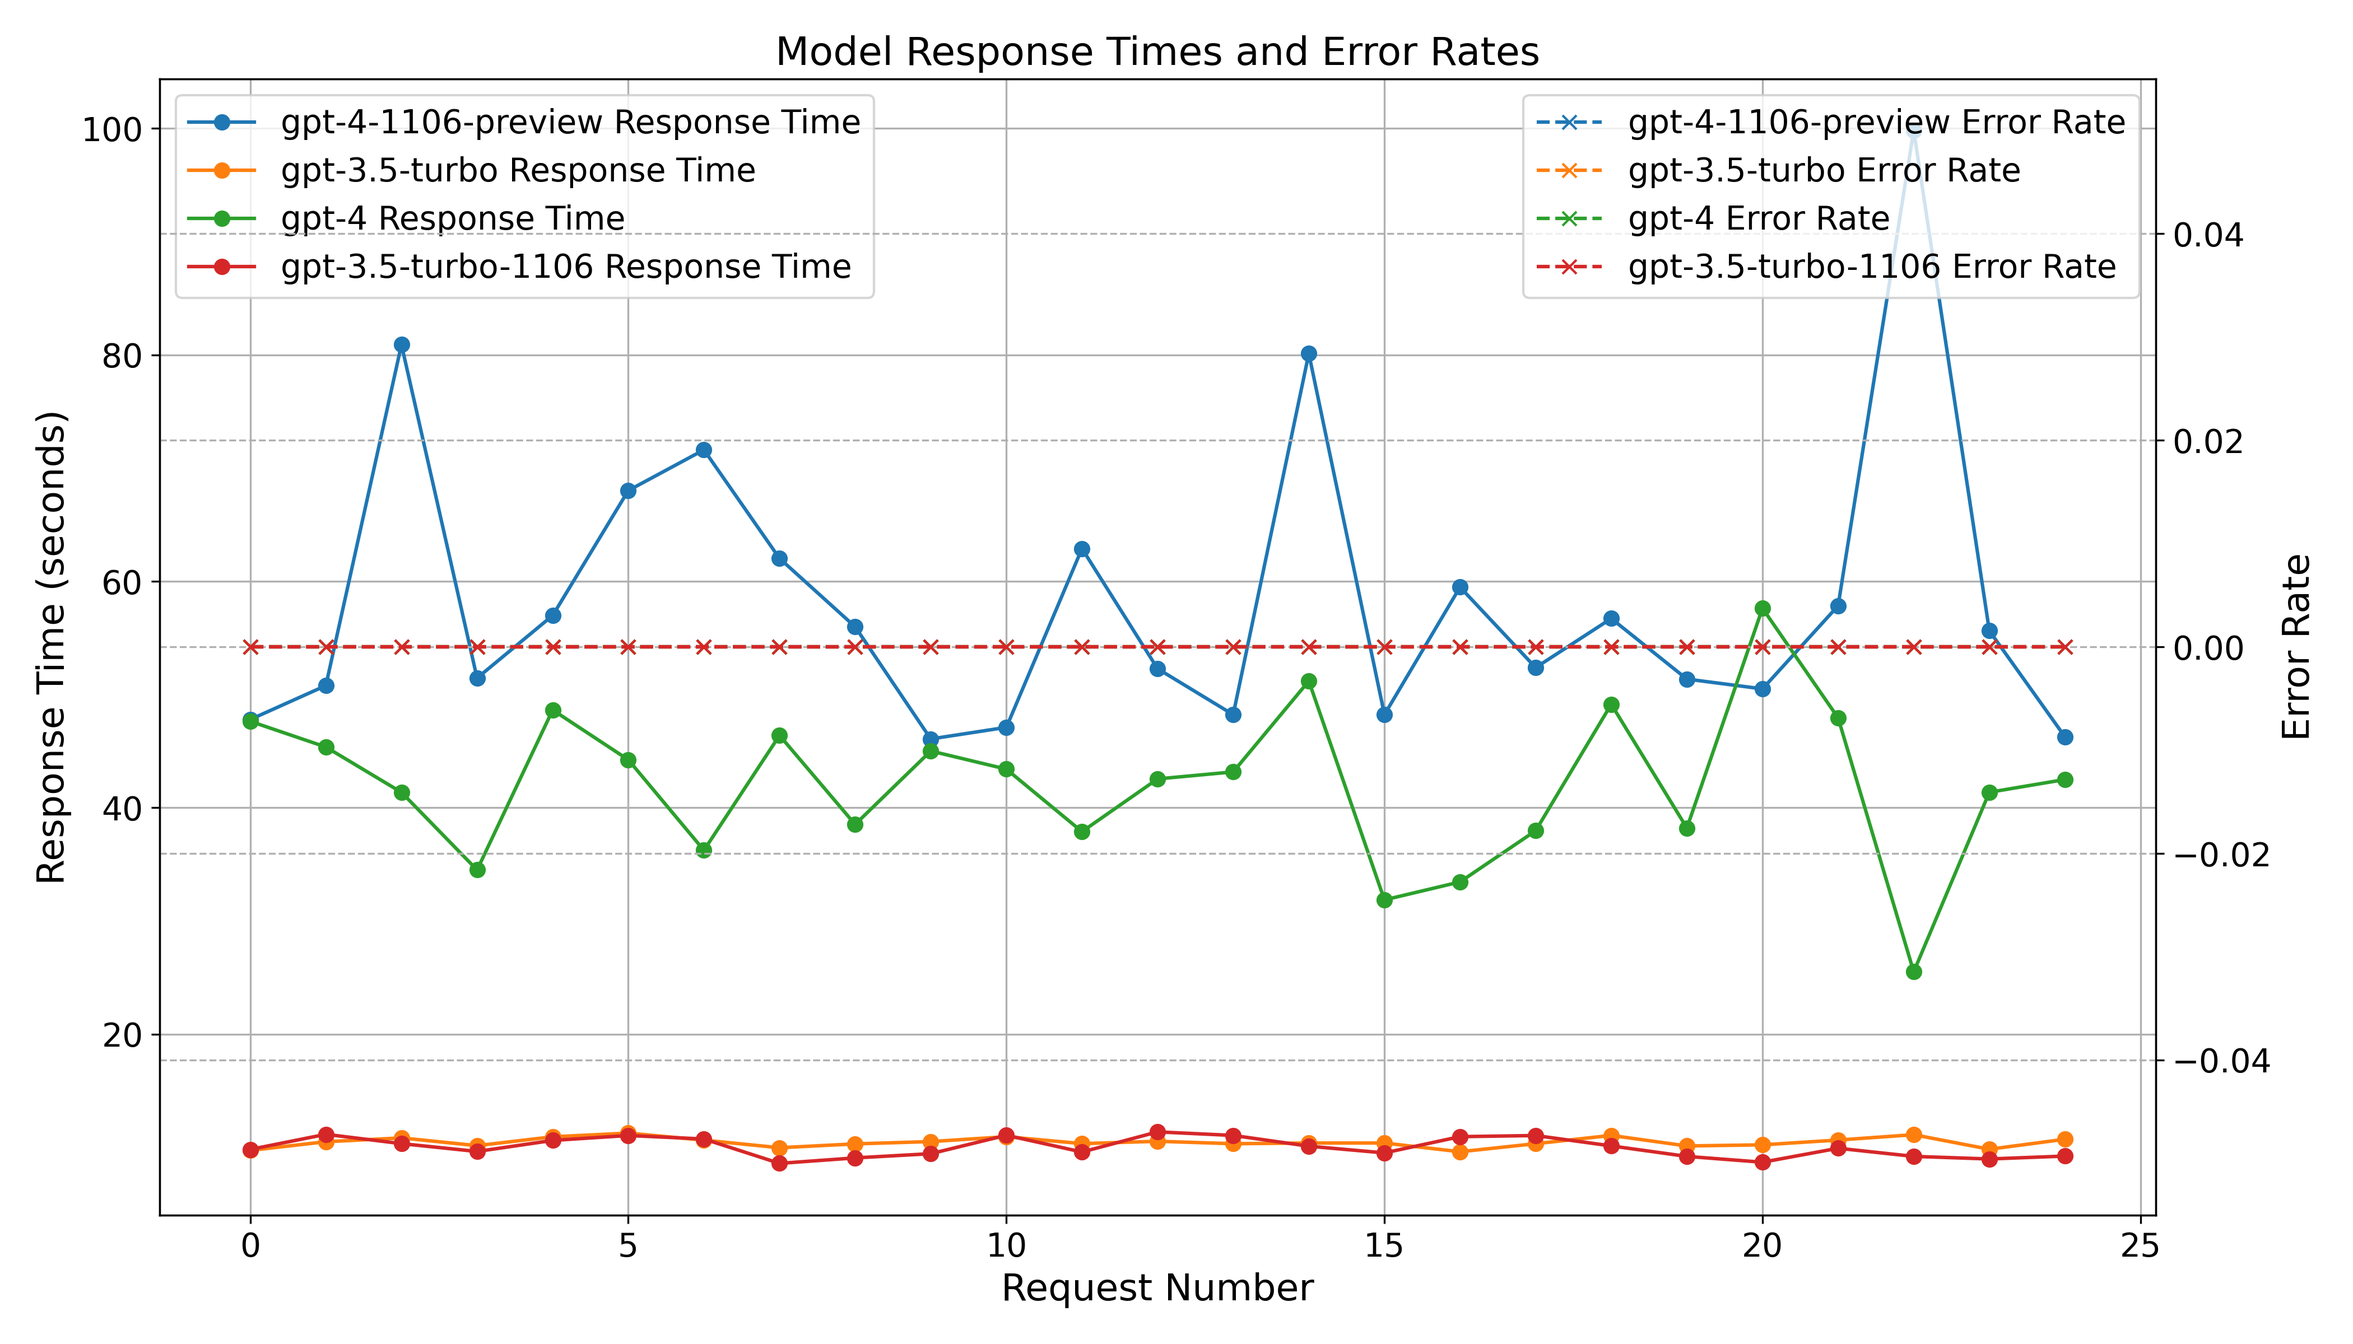
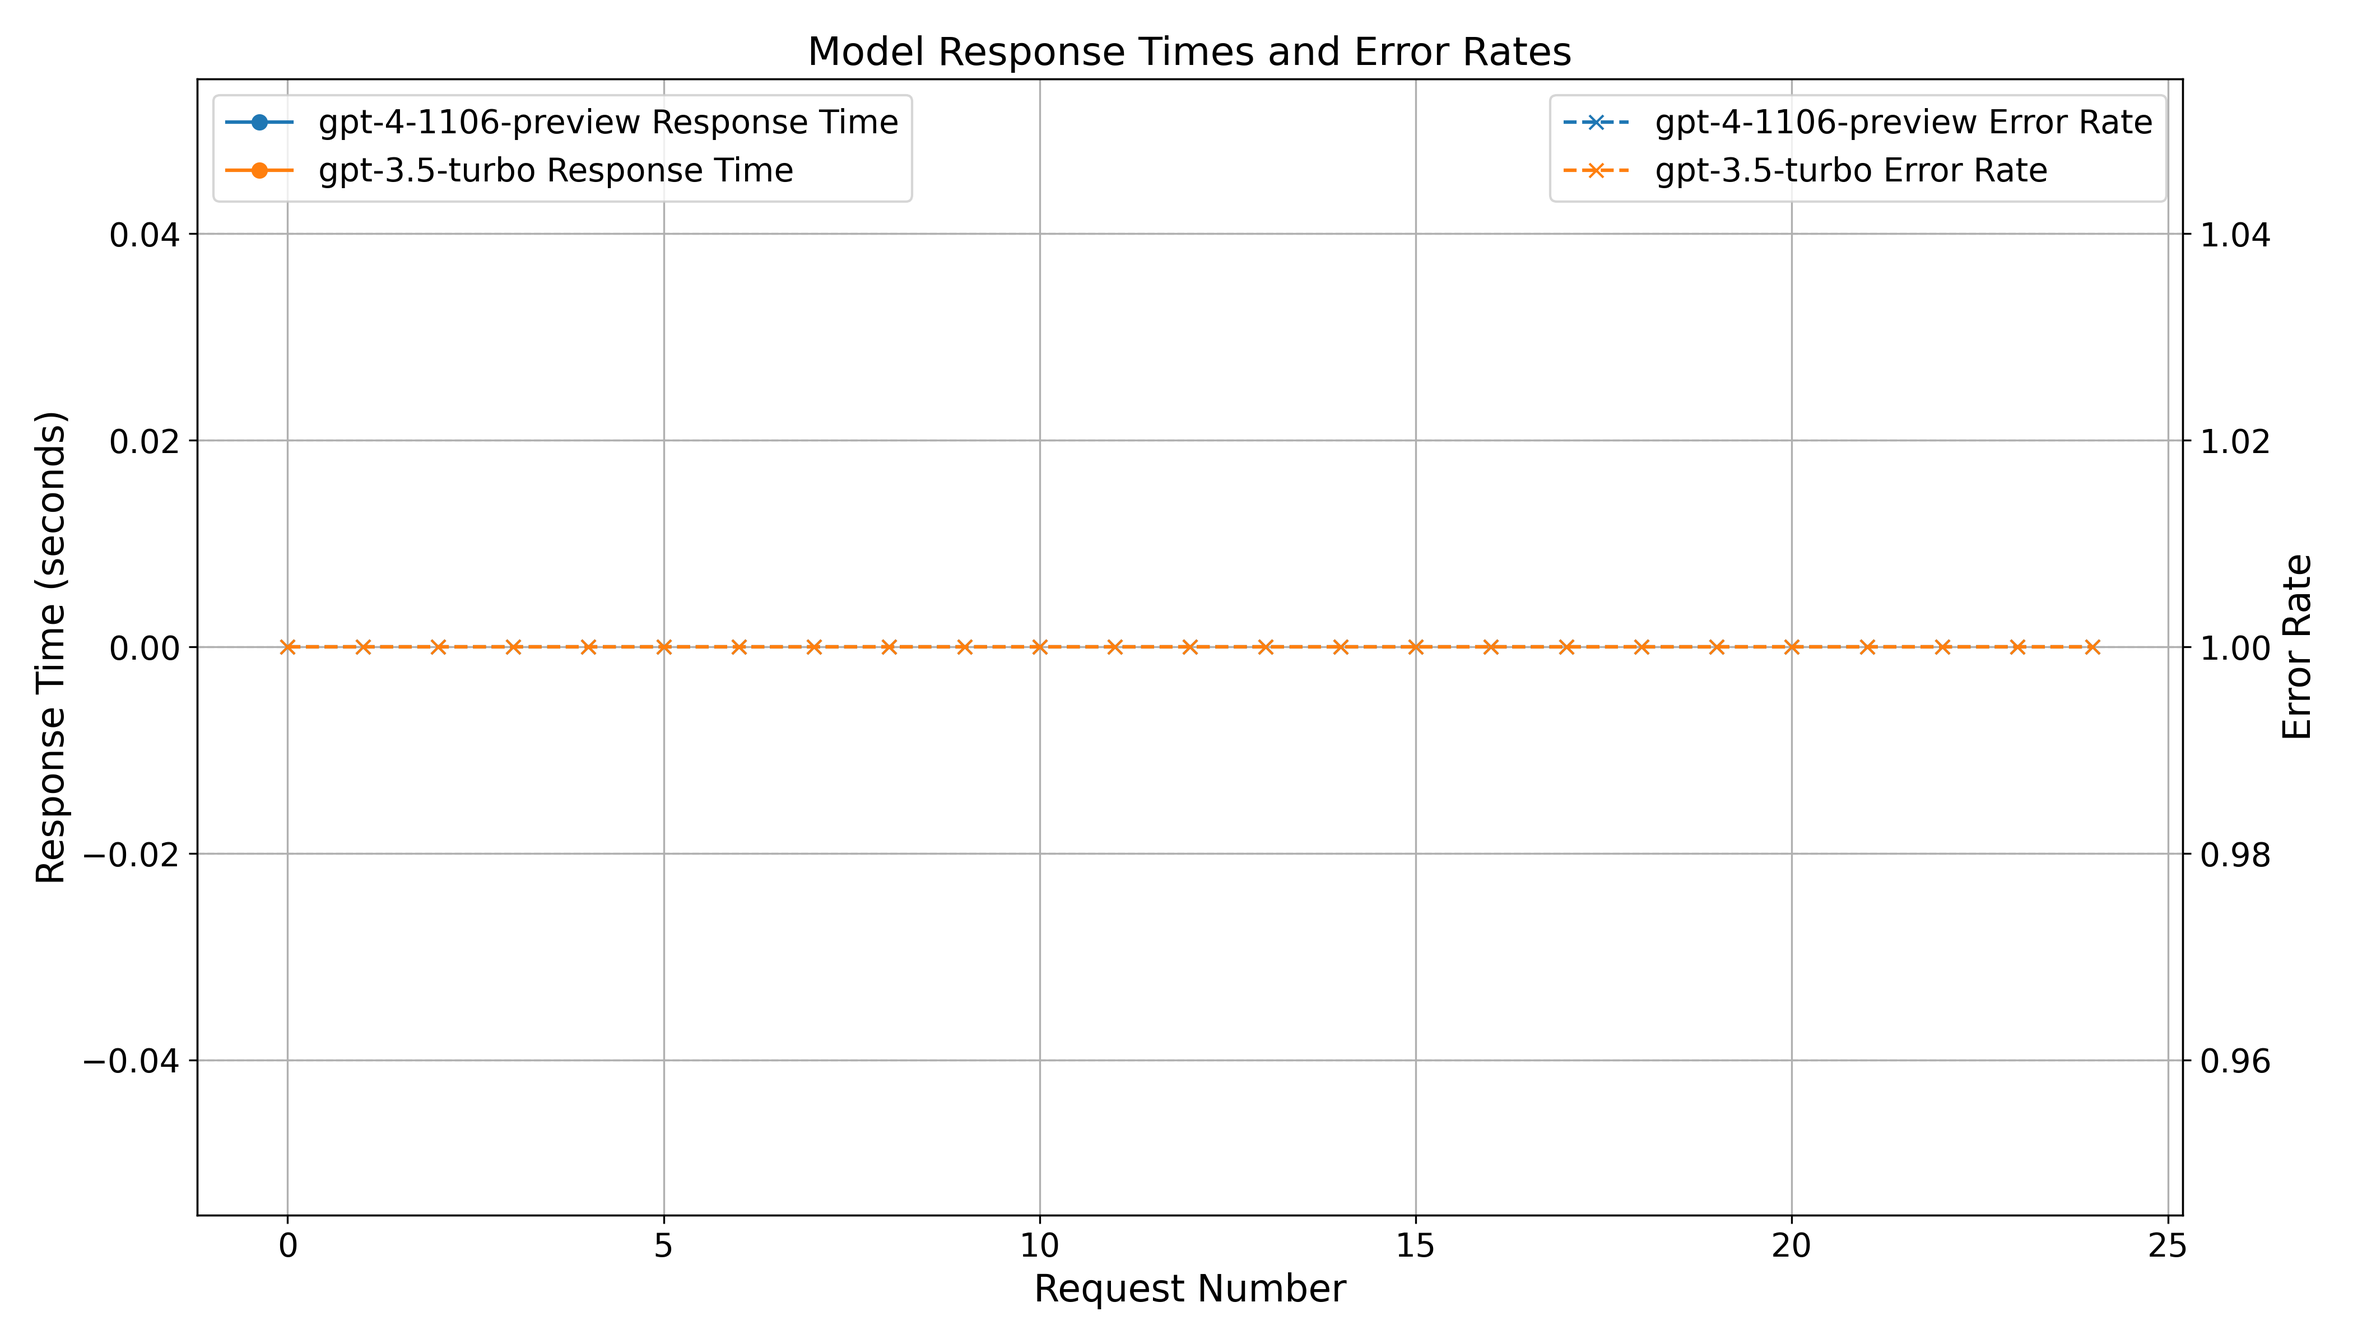
fixed evalution response

diff --git a/helper/interview_assistant.py b/helper/interview_assistant.py
@@ -7,15 +7,40 @@ from langchain.prompts import PromptTemplate
 from langchain.pydantic_v1 import BaseModel, Field
 import json
 from dotenv import load_dotenv
+from langchain.prompts import (
+    PromptTemplate,
+    ChatPromptTemplate,
+    HumanMessagePromptTemplate,
+)
 
 load_dotenv()
+from langchain.agents.openai_assistant import OpenAIAssistantRunnable
+
+
+# File: interview_assistant.py
+
+from typing import List
+from langchain.chat_models import ChatOpenAI
+from langchain.output_parsers import PydanticOutputParser
+from langchain.prompts import PromptTemplate
+from langchain.pydantic_v1 import BaseModel, Field
+import json
+
 
 class InterviewQuestions(BaseModel):
-    questions: List[str] = Field(description="List of interview questions based on topic and programming language")
+    questions: List[str] = Field(
+        description="List of interview questions based on topic and programming language"
+    )
+
 
 class AnswerEvaluation(BaseModel):
-    score: float = Field(description="Score based on the number of questions answered correctly")
-    correct_answers: List[dict] = Field(description="Model generated answers for the questions")
+    score: float = Field(
+        description="Score based on the number of questions answered correctly"
+    )
+    correct_answers: List[dict] = Field(
+        description="Model generated answers for the questions"
+    )
+
 
 class InterviewAssistant:
     def __init__(self, model_name: str):
@@ -25,56 +50,101 @@ class InterviewAssistant:
         self.question_prompt = PromptTemplate(
             template="Generate 10 {level} level interview questions based on the topic {topic} and the programming language {language}.\n{format_instructions}\n",
             input_variables=["topic", "language", "level"],
-            partial_variables={"format_instructions": self.question_parser.get_format_instructions()},
+            partial_variables={
+                "format_instructions": self.question_parser.get_format_instructions()
+            },
         )
-        self.answer_prompt = PromptTemplate(
-            template="Evaluate the following answers to the given questions and provide a score as a percentage out of 100. For only and only the  question that you think has been answered incorrectly, provide the correct answer.\n{format_instructions}\nQuestions: {questions}\nAnswers: {answers}\n",
+        self.answer_prompt = ChatPromptTemplate(
+            messages=[
+                HumanMessagePromptTemplate.from_template(
+                    "Evaluate the following answers to the given questions and provide a score as a percentage out of 100. "
+                    "For each question that has been answered incorrectly, provide the question along with the correct answer.\n"
+                    "{format_instructions}\nQuestions: {questions}\nAnswers: {answers}\n"
+                    "Please return the results in JSON format, including only the questions with incorrect answers and the correct answers."
+                )
+            ],
             input_variables=["questions", "answers"],
-            partial_variables={"format_instructions": self.answer_parser.get_format_instructions()},
+            partial_variables={
+                "format_instructions": self.answer_parser.get_format_instructions()
+            },
         )
 
     def evaluate_answers(self, qa_pairs: List[dict]) -> dict:
-        
         questions = [qa_pair.question for qa_pair in qa_pairs]
         answers = [qa_pair.answer for qa_pair in qa_pairs]
         prompt_and_model = self.answer_prompt | self.model
         output = prompt_and_model.invoke({"questions": questions, "answers": answers})
-        output_dict = json.loads(output.content)
-        
+
+        # Parse the output content using the answer parser
+        answer_evaluation = self.answer_parser.parse(output.content)
+
+        # If you need to work with a dictionary, convert the Pydantic object to a dict
+        output_dict = answer_evaluation.dict()
+
+        print(output_dict)
+        print("========" * 10)
+
         # Transform correct_answers into the expected format
         correct_answers_dicts = [
-            {"question": question, "answer": answer}
-            for correct_answer_dict in output_dict['correct_answers']
-            for question, answer in correct_answer_dict.items()
+            {
+                "question": correct_answer_dict["question"],
+                "answer":  correct_answer_dict.get("answer") or correct_answer_dict.get("correct_answer")
+            }
+            for correct_answer_dict in output_dict["correct_answers"]
         ]
-        
+
         # Return the transformed output
-        return {
-            "score": output_dict['score'],
-            "correct_answers": correct_answers_dicts
-        }
+        return {"score": output_dict["score"], "correct_answers": correct_answers_dicts}
 
     def generate_questions(self, topic: str, languages: List[str], level: str) -> dict:
         all_questions = []
         for language in languages:
             prompt_and_model = self.question_prompt | self.model
-            output = prompt_and_model.invoke({"topic": topic, "language": language, "level": level})
+            output = prompt_and_model.invoke(
+                {"topic": topic, "language": language, "level": level}
+            )
             questions = self.question_parser.invoke(output)
             all_questions.extend(questions.questions)
         return {"questions": all_questions}
 
 
-
 # Usage
-# assistant = InterviewAssistant(model_name="gpt-4-1106-preview")
+# assistant = InterviewAssistant(model_name="gpt-3.5-turbo-1106")
 # topic = "data science"
 # languages = ["Python", "SQL", "Maths"]
 # level = "beginner"
 # questions_dict = assistant.generate_questions(topic, languages, level)
 # print(json.dumps(questions_dict, indent=4))
 
-# qa_pairs = [
-#     # ... your question-answer pairs here ...
-# ]
-# evaluation_dict = assistant.evaluate_answers(qa_pairs)
+# qa_pairs_payload = {
+#     "qa_pairs": [
+#         {
+#             "question": "What is Data Science and how does it differ from traditional statistics?",
+#             "answer": "Data Science is a multidisciplinary field that uses scientific methods, processes, algorithms, and systems to extract knowledge and insights from structured and unstructured data. It differs from traditional statistics in that it incorporates techniques and theories from broader fields like mathematics, statistics, information science, and computer science. Traditional statistics, on the other hand, is more focused on data analysis and interpretation in isolation.",
+#         },
+#         {
+#             "question": "Can you briefly explain the data science lifecycle?",
+#             "answer": "The data science lifecycle typically includes the following steps: 1) Business Understanding - defining the problem and desired outcomes. 2) Data Mining - gathering the required data. 3) Data Cleaning - removing inconsistencies and inaccuracies in the data. 4) Data Exploration - using statistical techniques to identify patterns or anomalies in the data. 5) Feature Engineering - modifying or creating new variables to better represent the underlying data patterns. 6) Predictive Modeling - creating a statistical model for prediction. 7) Data Visualization - visualizing the data and model outcomes. 8) Deployment - implementing the model into production. 9) Monitoring - tracking the model's performance over time.",
+#         },
+#         {
+#             "question": "What are some common libraries in Python used for data science and what are their uses?",
+#             "answer": "Some common Python libraries used in data science include: 1) NumPy - used for numerical computations and handling arrays. 2) Pandas - used for data manipulation and analysis. 3) Matplotlib - used for data visualization. 4) Scikit-learn - used for machine learning and statistical modeling. 5) TensorFlow and PyTorch - used for deep learning.",
+#         },
+#         {
+#             "question": "What is a pandas DataFrame in Python and how is it used in data science?",
+#             "answer": "A pandas DataFrame is a two-dimensional, size-mutable, heterogeneous tabular data structure with labeled axes (rows and columns). It can be thought of as a dictionary-like container for Series objects. In data science, it is used for data manipulation and analysis. It provides various functionalities like slicing, indexing, joining, merging, reshaping, etc.",
+#         },
+#         {
+#             "question": "Can you describe what 'data cleaning' is and why it's important in data science?",
+#             "answer": "Data cleaning, also known as data cleansing or data scrubbing,we use it to add value to the data by adding stopwords to make it longer for our model to understand",
+#         },
+#     ]
+# }
+
+# from models.answer import AnswerEvaluationRequest, QuestionAnswerPair
+
+
+# qa_pairs = [QuestionAnswerPair(**qa_pair) for qa_pair in qa_pairs_payload["qa_pairs"]]
+# evaluation_request = AnswerEvaluationRequest(qa_pairs=qa_pairs)
+# evaluation_dict = assistant.evaluate_answers(evaluation_request.qa_pairs)
 # print(json.dumps(evaluation_dict, indent=4))

diff --git a/bech.py b/bech.py
@@ -1,0 +1,113 @@
+import time
+from helper.interview_assistant import InterviewAssistant
+import logging
+import matplotlib.pyplot as plt
+
+from models.answer import AnswerEvaluationRequest, QuestionAnswerPair
+
+
+# Configuration
+MODEL_NAMES = ["gpt-4-1106-preview", "gpt-3.5-turbo-1106"]  # Corrected model names
+NUM_REQUESTS = 20 # Number of requests to simulate
+
+# Placeholder for timing results
+results = {}
+errors = {}
+
+# Configure logging
+logging.basicConfig(
+    level=logging.INFO,
+    format='%(asctime)s - %(levelname)s - %(message)s',
+    filename='evaluate_answers_benchmark.log',
+    filemode='w'
+)
+
+
+# Payload for benchmarking
+qa_pairs_payload = {
+  "qa_pairs": [
+    {
+        "question": "What is Data Science and how does it differ from traditional statistics?",
+        "answer": "Data Science is a multidisciplinary field that uses scientific methods, processes, algorithms, and systems to extract knowledge and insights from structured and unstructured data. It differs from traditional statistics in that it incorporates techniques and theories from broader fields like mathematics, statistics, information science, and computer science. Traditional statistics, on the other hand, is more focused on data analysis and interpretation in isolation."
+    },
+    {
+        "question": "Can you briefly explain the data science lifecycle?",
+        "answer": "The data science lifecycle typically includes the following steps: 1) Business Understanding - defining the problem and desired outcomes. 2) Data Mining - gathering the required data. 3) Data Cleaning - removing inconsistencies and inaccuracies in the data. 4) Data Exploration - using statistical techniques to identify patterns or anomalies in the data. 5) Feature Engineering - modifying or creating new variables to better represent the underlying data patterns. 6) Predictive Modeling - creating a statistical model for prediction. 7) Data Visualization - visualizing the data and model outcomes. 8) Deployment - implementing the model into production. 9) Monitoring - tracking the model's performance over time."
+    },
+    {
+        "question": "What are some common libraries in Python used for data science and what are their uses?",
+        "answer": "Some common Python libraries used in data science include: 1) NumPy - used for numerical computations and handling arrays. 2) Pandas - used for data manipulation and analysis. 3) Matplotlib - used for data visualization. 4) Scikit-learn - used for machine learning and statistical modeling. 5) TensorFlow and PyTorch - used for deep learning."
+    },
+    {
+        "question": "What is a pandas DataFrame in Python and how is it used in data science?",
+        "answer": "A pandas DataFrame is a two-dimensional, size-mutable, heterogeneous tabular data structure with labeled axes (rows and columns). It can be thought of as a dictionary-like container for Series objects. In data science, it is used for data manipulation and analysis. It provides various functionalities like slicing, indexing, joining, merging, reshaping, etc."
+    },
+    {
+        "question": "Can you describe what 'data cleaning' is and why it's important in data science?",
+        "answer": "Data cleaning, also known as data cleansing or data scrubbing,we use it to add value to the data by adding stopwords to make it longer for our model to understand"
+    }
+]
+}
+
+
+def benchmark_evaluate_answers(model_name):
+    assistant = InterviewAssistant(model_name=model_name)
+    timings = []
+    error_count = 0
+    qa_pairs = [QuestionAnswerPair(**qa_pair) for qa_pair in qa_pairs_payload["qa_pairs"]]
+    evaluation_request = AnswerEvaluationRequest(qa_pairs=qa_pairs)
+
+    for i in range(NUM_REQUESTS):
+        try:
+            start_time = time.time()
+            # Pass the list of QuestionAnswerPair objects to the evaluate_answers function
+            evaluation_results = assistant.evaluate_answers(evaluation_request.qa_pairs)
+            elapsed_time = time.time() - start_time
+            timings.append(elapsed_time)
+            print(f"Evaluation {i+1} for model {model_name} succeeded in {elapsed_time:.2f} seconds.")
+            logging.info(f"Evaluation {i+1} for model {model_name} succeeded in {elapsed_time:.2f} seconds.")
+        except Exception as e:
+            elapsed_time = time.time() - start_time
+            error_count += 1
+            print(f"Evaluation {i+1} for model {model_name} failed: {e} in {elapsed_time:.2f} seconds.")
+            logging.error(f"Evaluation {i+1} for model {model_name} failed: {e} in {elapsed_time:.2f} seconds.")
+
+    error_rate = error_count / NUM_REQUESTS
+    errors[model_name] = error_rate
+    return timings, error_rate  # Return both timings and error rate
+
+# Run benchmark for each model
+for model in MODEL_NAMES:
+    print(f"Benchmarking evaluation for {model}...")
+    results[model], errors[model] = benchmark_evaluate_answers(model)  # Store both results
+
+# Increase default font sizes for better readability
+plt.rcParams.update({'font.size': 14, 'axes.labelsize': 16})
+
+# Plotting the results with a larger figure size
+fig, ax1 = plt.subplots(figsize=(14, 8))  # Increase figure size
+
+for model, timings in results.items():
+    ax1.plot(timings, label=f"{model} Response Time", marker='o')  # Added markers for clarity
+
+ax1.set_title('Model Response Times and Error Rates')
+ax1.set_xlabel('Request Number')
+ax1.set_ylabel('Response Time (seconds)')
+ax1.legend(loc='upper left')
+ax1.grid(True)  # Add gridlines
+
+# Plot error rates on the same graph with a secondary y-axis
+ax2 = ax1.twinx()
+for model, error_rate in errors.items():
+    ax2.plot([error_rate] * NUM_REQUESTS, label=f"{model} Error Rate", linestyle='--', marker='x')  # Added markers
+
+ax2.set_ylabel('Error Rate')
+ax2.legend(loc='upper right')
+ax2.grid(True, linestyle='--')  # Add dashed gridlines
+
+# Display the plot
+plt.tight_layout()  # Adjust the padding between and around subplots
+plt.show()
+
+# Save the plot to the local directory with a higher resolution
+fig.savefig('benchmark_results.png', dpi=300) 
